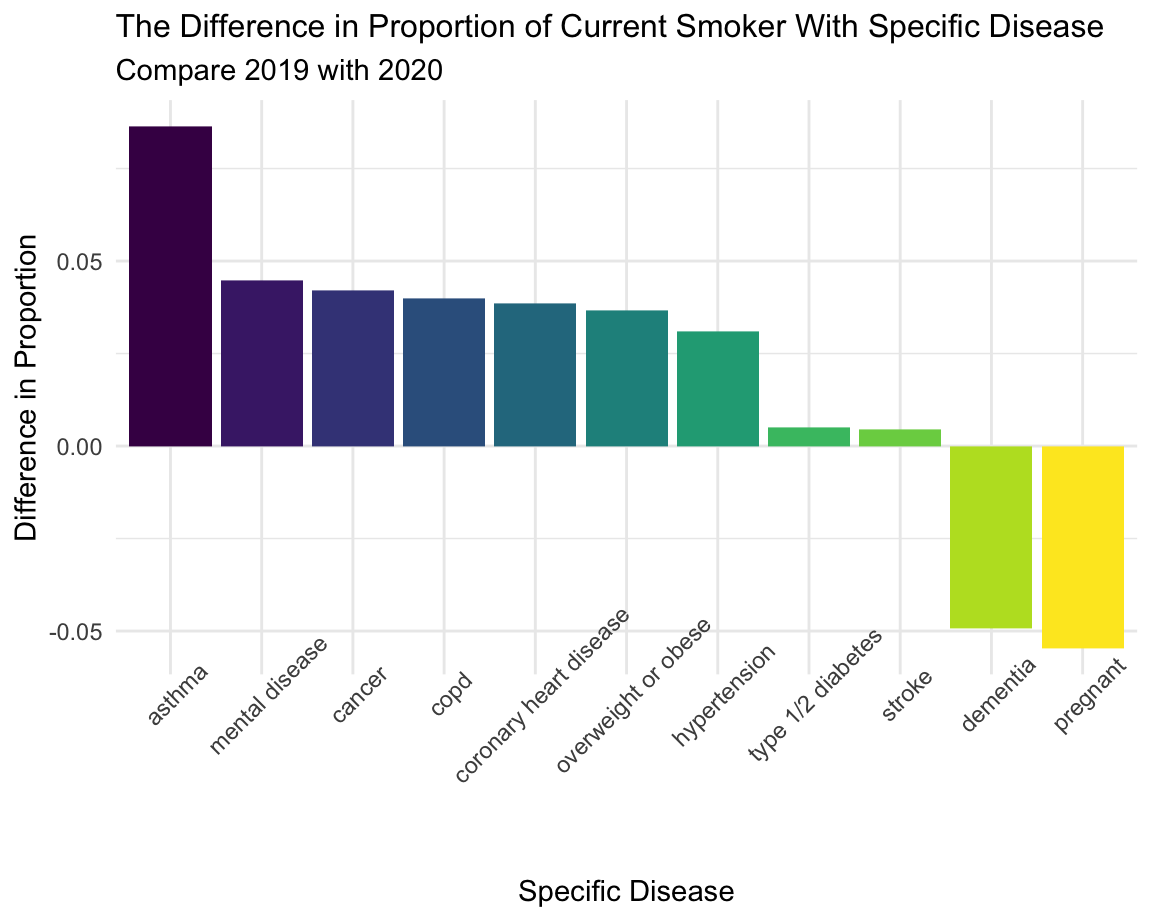
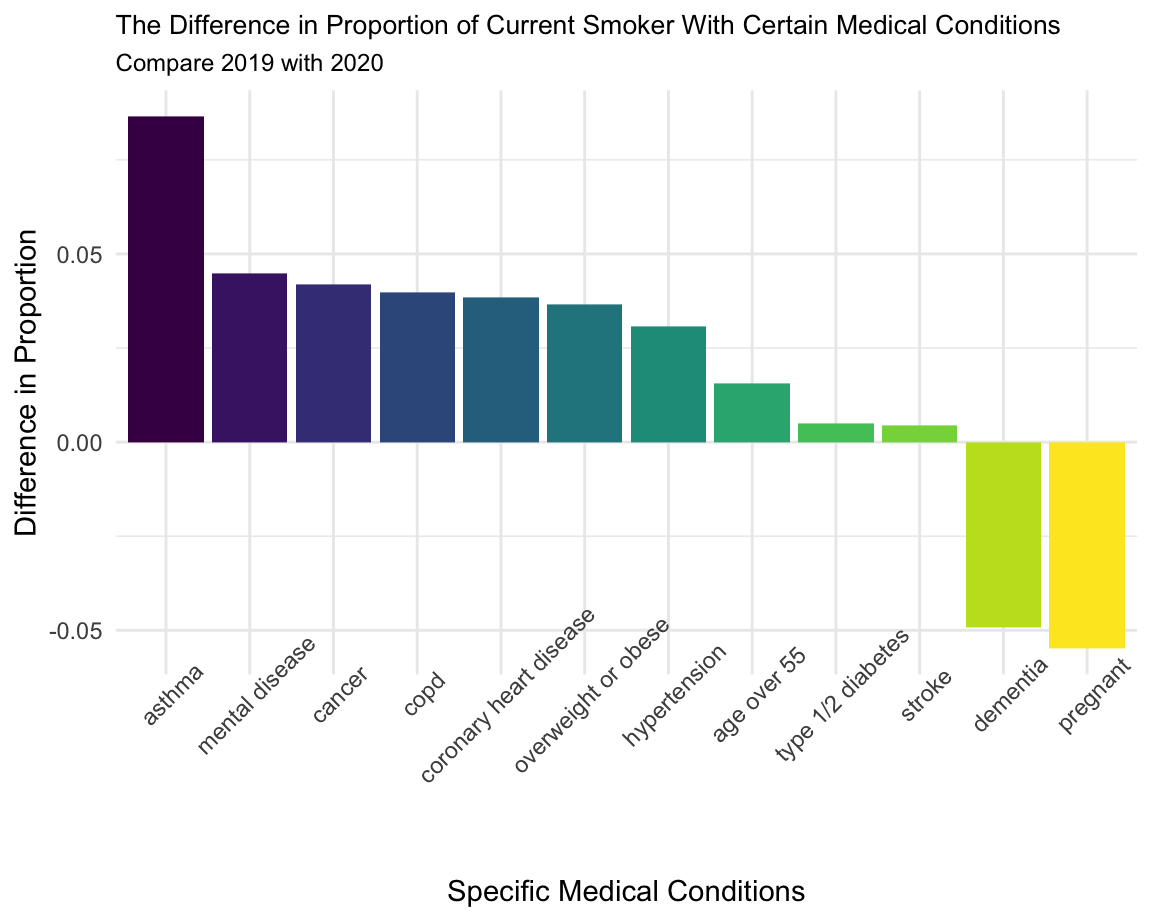
Edited Covid-19

diff --git a/smoking_and_covid19.html b/smoking_and_covid19.html
@@ -345,10 +345,10 @@ div.tocify {
     <li>
       <a href="quit_smoke.html">Quit Smoking Analysis</a>
     </li>
-    <li>
-      <a href="quite_smoke.html">Quit Smoking!</a>
-    </li>
   </ul>
+</li>
+<li>
+  <a href="quite_smoke.html">Quit Smoking!</a>
 </li>
 <li>
   <a href="mailto:&lt;lh3109@cumc.columbia.edu&gt;">
@@ -385,46 +385,6 @@ div.tocify {
 
 
 <p>We aim to look at the distribution of <strong>current smoker</strong>, <strong>former smoker</strong>, and <strong>never smoker</strong> among different subgroups defined by demographic characteristics, and if the proportion of current smoker with certain medical conditions decreases in 2020 comparing to 2019.</p>
-<div id="age" class="section level2">
-<h2>Age</h2>
-<p>Based on the graph, in 2020, there were more people aged 50 to 70 who were current smoker and people aged 60 to 80 who were former smoker, with the highest density at age of 60+ and 70, respectively. The age distribution of people who had never smoked was relatively even.</p>
-<pre class="r"><code>age_df =
-  adult_smoke %&gt;%
-  filter(year == 2020) %&gt;%
-  filter(age &lt;= 85)
-
-age_df %&gt;%
-  ggplot(aes(x = age, color = smoke, fill = smoke)) +
-  geom_density(alpha = 0.5) + 
-  labs(
-    title = &quot;The Distribution of Age Among Different Groups of Smoker in 2020&quot;,
-    x = &quot;Age&quot;,
-    y = &quot;Density&quot;,
-    caption = &quot;Data from the Nationnal Health Interview Survey&quot;
-  )</code></pre>
-<p><img src="smoking_and_covid19_files/figure-html/smoker_by_age-1.png" width="90%" /></p>
-</div>
-<div id="biological-sex" class="section level2">
-<h2>Biological Sex</h2>
-<p>The distribution of smoker by sex shows that, although there were more female respondents of the health survey, the number of smoker (either current or former) is less than male.</p>
-<pre class="r"><code>sex_df =
-  adult_smoke %&gt;%
-  filter(year == 2020) %&gt;%
-  group_by(smoke,sex) %&gt;%
-  summarise(n = n()) %&gt;%
-  filter(sex %in% c(&quot;female&quot;,&quot;male&quot;))
- 
-sex_df %&gt;%
-  ggplot(aes(x = sex, y = n, fill = smoke)) +
-  geom_bar(position = &quot;stack&quot;, stat = &quot;identity&quot;) +
-  labs(
-    title = &quot;The Distribution of Smoker By Sex in 2020&quot;,
-    x = &quot;Sex&quot;, 
-    y = &quot;Count&quot;,
-    caption = &quot;Data from the National Health Interview Survey&quot;
-  )</code></pre>
-<p><img src="smoking_and_covid19_files/figure-html/smoker_by_sex-1.png" width="90%" /></p>
-</div>
 <div id="sexual-orientation" class="section level2">
 <h2>Sexual Orientation</h2>
 <p>The table shows that the number of people with sexual orientation other than <strong>straight</strong> were extremely fewer than straight. Based on the graph, the proportion of smoker (current + former) within the gay/lesbian group was larger than straight; Bisexual people has the largest current smoker rate, which can be clearly seen in the graph.</p>
@@ -665,8 +625,10 @@ dementia_df = dementia_df %&gt;% mutate(disease = &quot;dementia&quot;)
 diabetes_df = diabetes_df %&gt;% mutate(disease = &quot;type 1/2 diabetes&quot;)
 stroke_df = stroke_df %&gt;% mutate(disease = &quot;stroke&quot;)
 preganant_df = preganant_df %&gt;% mutate(disease = &quot;pregnant&quot;)
+age_df = age_df %&gt;% mutate(disease = &quot;age over 55&quot;)
+
 difference_df =
-  rbind(cancer_df, asthma_df, copd_df, heart_disease_df, hypertension_df, mental_df, bmi_df, dementia_df, diabetes_df, stroke_df, preganant_df) %&gt;%
+  rbind(cancer_df, asthma_df, copd_df, heart_disease_df, hypertension_df, mental_df, bmi_df, dementia_df, diabetes_df, stroke_df, preganant_df, age_df) %&gt;%
   select(year, disease, smoke, n, sum, proportion) %&gt;%
   filter(smoke == &quot;current smoker&quot;) %&gt;%
   select(year, disease, proportion) %&gt;%
@@ -689,14 +651,14 @@ difference_df %&gt;%
   ggplot(aes(x = disease, y = prop_diff, fill = disease)) +
   geom_bar(stat = &quot;identity&quot;) +
   labs(
-    title = &quot;The Difference in Proportion of Current Smoker With Specific Disease&quot;,
+    title = &quot;The Difference in Proportion of Current Smoker With Certain Medical Conditions&quot;,
     subtitle = &quot;Compare 2019 with 2020&quot;, 
-    x = &quot;Specific Disease&quot;,
+    x = &quot;Specific Medical Conditions&quot;,
     y = &quot;Difference in Proportion&quot;
   ) +
   theme(axis.text.x = element_text(angle = 45),
-        plot.title = element_text(size = 12),
-        plot.subtitle = element_text(size = 11),
+        plot.title = element_text(size = 10),
+        plot.subtitle = element_text(size = 9),
         legend.position = &quot;None&quot;) </code></pre>
 <p><img src="smoking_and_covid19_files/figure-html/prop_diff-1.png" width="90%" /></p>
 </div>
